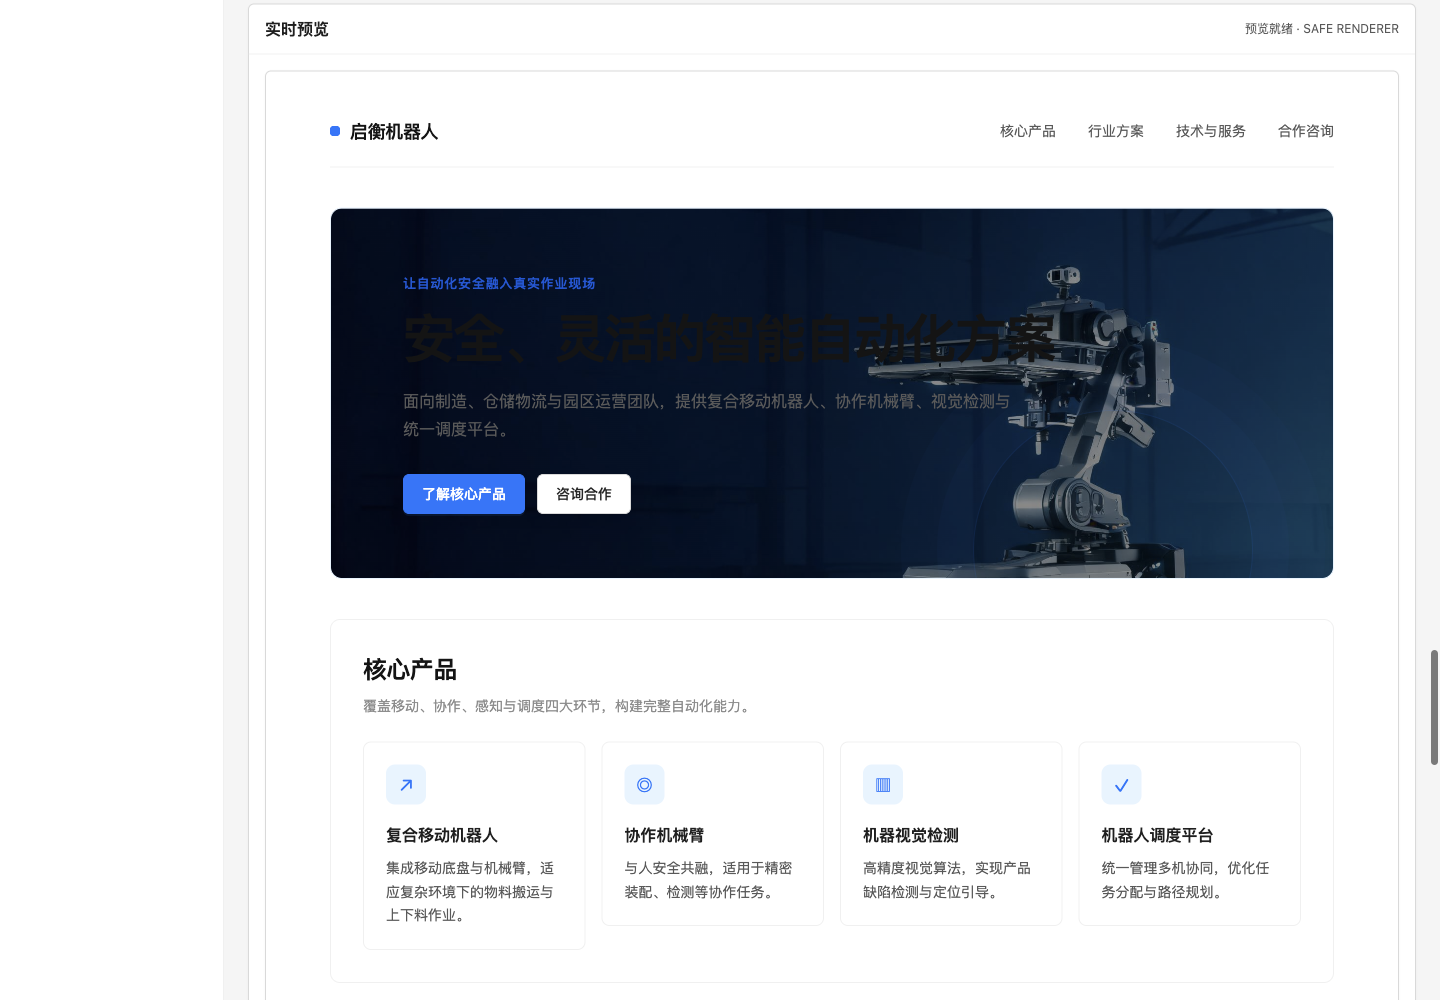
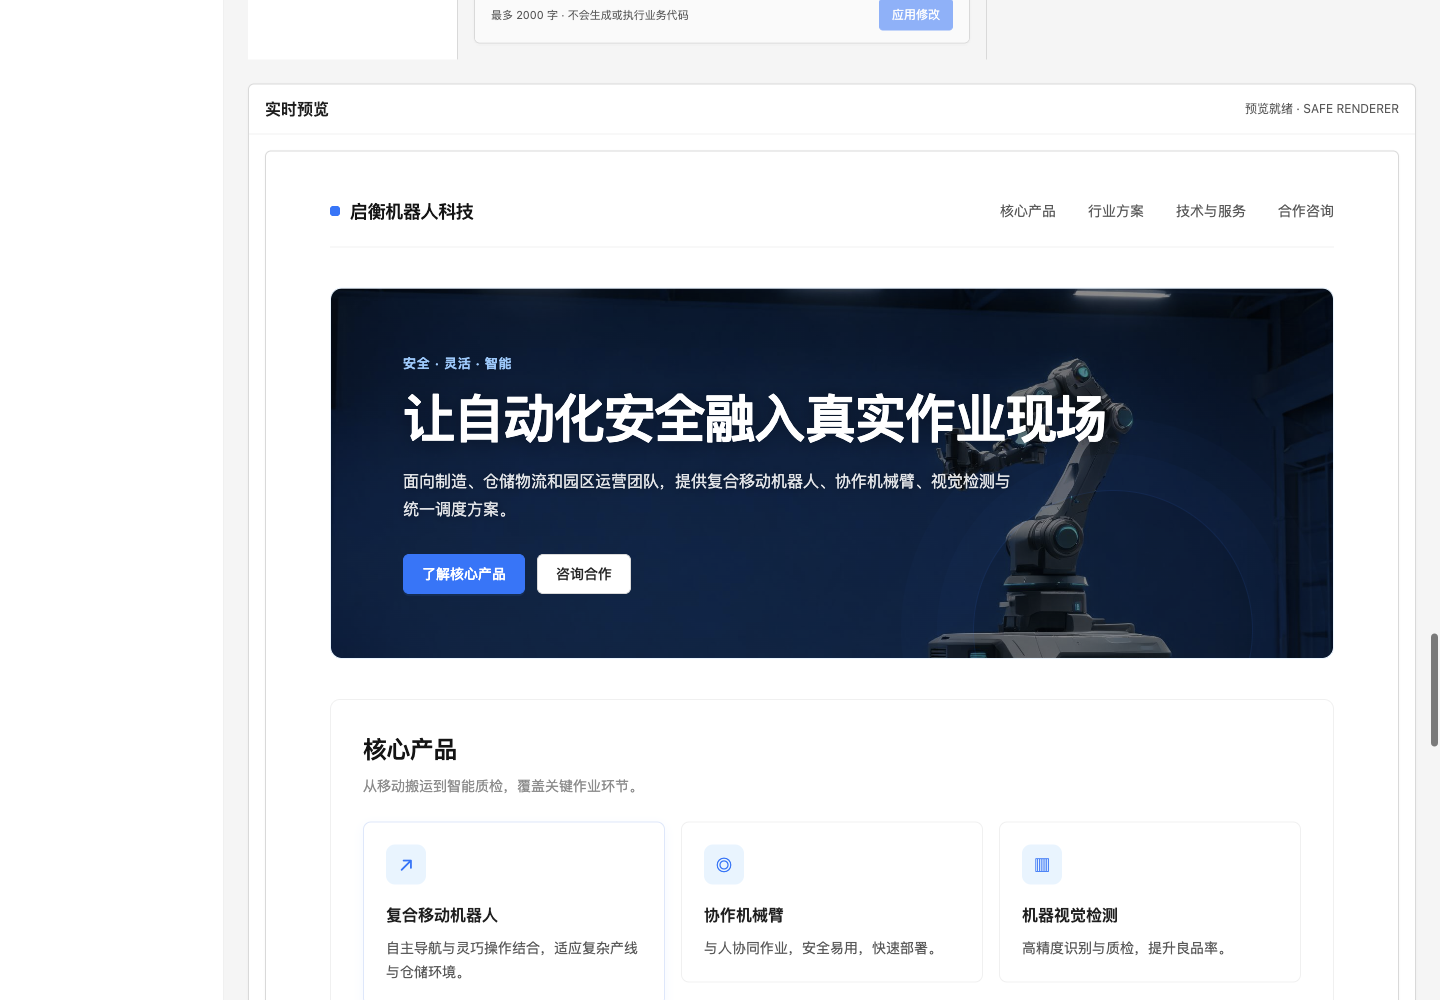
docs: add robotics website v1.1 release manual

diff --git a/docs/PulseFlow机器人官网制作手册-v1.1.md b/docs/PulseFlow机器人官网制作手册-v1.1.md
@@ -1,86 +1,113 @@
 # PulseFlow 机器人官网制作手册 V1.1
 
-本文记录在 PulseFlow Studio 中重新制作“启衡机器人科技”官网的实际流程。截图来自本次 Ego Lite TaskSpace 5 内真实操作；截图不包含工作区令牌或 API 密钥。
+这份手册记录如何从登录 PulseFlow Studio 开始，导入需求、通过系统对话修改启衡机器人科技官网、生成并应用机器人主视觉、检查预览和发布。文中的图片是本次 TaskSpace 5 操作界面的真实截图；截图和文档均未包含 API 密钥。
 
-> **当前进度（2026-09-27）**：已登录 Studio，解析并选择官网需求章节，生成草稿、回答澄清问题、通过结构校验并进入设计画布。系统对话已成功修改文案；图片生成仍失败，尚未完成图片应用、最终预览和 V1.1 发布。已有旧版本 `qiheng-robotics-home-v1` 保持不变。
+> **完成状态（2026-09-27）**：官网已发布为 `qiheng-robotics-home-v2`。DSL、预览编译、页面构建三项门禁全部通过；旧版本 `qiheng-robotics-home-v1` 保留。发布结果是 PulseFlow 的只读页面版本，尚未部署到公网。
 
-## 官网目标
+## 成品目标
 
-为启衡机器人科技制作企业官网，面向制造、仓储物流和园区运营团队，介绍复合移动机器人、协作机械臂、机器视觉检测及调度平台。视觉方向为深空蓝、冷白和电光青，使用真实工业机器人主视觉，不使用战斗机器人、虚构客户案例、未经证实的型号或性能数字。
+启衡机器人科技官网面向制造、仓储物流和园区运营团队，介绍复合移动机器人、协作机械臂、机器视觉检测、统一调度及相关服务。整体采用深空蓝、冷白和少量电光青的工业科技风格。首屏主视觉使用右侧机器人、左侧标题留白的构图，并为深色图片背景设置高对比文字。
 
-## 制作步骤与截图
+## 操作流程
 
-### 1. 登录 PulseFlow Studio
+### 1. 登录 Studio
 
-打开本地 Studio 登录页，使用本地工作区令牌进入工作区。不要把令牌发到对话中，也不要截入手册。
+启动本地服务后打开 Studio 登录页。使用本地工作区令牌进入工作区。令牌保存在根目录 `.env`，不要粘贴到系统对话或写入手册。
 
 ![Studio 登录页](assets/pulseflow-robotics-manual-v1.1/01-login.png)
 
-### 2. 选择官网页面类型
+### 2. 选择“企业官网”并导入需求
 
-登录后进入“导入业务需求”。选择“企业官网”，该类型会围绕导航、首屏、内容区块和行动入口组织页面。
+在“导入业务需求”中选择“企业官网”，再把需求按 Markdown 标题分段粘贴。分段后可以逐章检查并决定哪些内容交给生成服务。
 
 ![需求导入页](assets/pulseflow-robotics-manual-v1.1/02-requirements.png)
 
-### 3. 输入并解析结构化需求
+本次需求包含品牌定位、核心产品、行业方案、技术服务、合作咨询和视觉方向。明确不编造客户案例、公司资质、产品型号或性能数字。
 
-在“粘贴需求文本”中使用 Markdown 标题区分内容。解析器会按标题拆成章节；没有标题的长段落会被识别为“无标题内容”，不利于后续选择生成范围。
+![结构化官网需求](assets/pulseflow-robotics-manual-v1.1/03-requirement-text.png)
 
-本次整理为品牌定位、核心产品、行业解决方案、技术与服务、关于启衡、合作咨询和视觉方向七个章节。
+### 3. 选择生成章节
 
-![结构化官网需求文本](assets/pulseflow-robotics-manual-v1.1/03-requirement-text.png)
-
-### 4. 选择需要生成的章节
-
-本次选择品牌定位、核心产品、行业解决方案、技术与服务、合作咨询和视觉方向六章；“关于启衡”不单独成章，避免生成未经证实的公司历史或资质。
+勾选六个相关章节。“关于启衡”没有足够的已核实资料，因此没有单独生成公司历史介绍。
 
 ![章节选择页](assets/pulseflow-robotics-manual-v1.1/04-chapter-selection.png)
 
 ![已选六个生成章节](assets/pulseflow-robotics-manual-v1.1/05-selected-chapters.png)
 
-### 5. 检查草稿并回答澄清问题
+### 4. 检查草稿、回答问题并校验
 
-生成结果包含四个咨询表单字段：所属行业、应用场景、需求说明和联系方式。系统询问产品参数、在线预约和客户案例后，分别说明不展示未确认参数、不提供在线日历、不展示未核实或未授权的客户信息。
+生成草稿后核对品牌、页面 ID、页面结构和实体字段。本次页面 ID 为 `qiheng-robotics-home`，表单包含所属行业、应用场景、需求说明和联系方式。
 
-![生成的草稿和澄清问题](assets/pulseflow-robotics-manual-v1.1/06-draft-review.png)
+系统询问产品参数及客户案例时，回答“暂不展示未经核实的型号、性能数据、客户案例和资质”。点击“确认结构并校验”，看到校验通过后进入设计画布。
 
-回答后运行结构校验。本次显示校验通过、4 个实体字段、0 个问题待回答，再进入画布。
+![草稿和待澄清问题](assets/pulseflow-robotics-manual-v1.1/06-draft-review.png)
 
-![已回答问题并通过校验](assets/pulseflow-robotics-manual-v1.1/07-answered-questions.png)
+![回答澄清问题并通过结构校验](assets/pulseflow-robotics-manual-v1.1/07-answered-questions.png)
 
-### 6. 在画布中使用系统对话修改文案并请求主视觉
+### 5. 在画布用系统对话修改页面
 
-设计画布显示企业官网的组件工具架、页面结构、属性区、实时预览和发布检查面板。通过“对话调整页面”保留导航、产品、行业方案、服务和咨询表单结构，强化首屏价值表达，并请求生成一张深空蓝工业厂房中的复合移动机器人主视觉。
+画布包括组件工具架、页面结构、属性检查器、实时预览和发布检查。通过“对话调整页面”描述想保留的结构、文案方向和图片要求；系统会校验结果，再应用到当前画布。
 
-![初始设计画布](assets/pulseflow-robotics-manual-v1.1/08-design-canvas.png)
+![设计画布](assets/pulseflow-robotics-manual-v1.1/08-design-canvas.png)
 
-![对话提出文案和图片要求](assets/pulseflow-robotics-manual-v1.1/09-chat-request.png)
+本次对话保留导航、产品、行业方案、技术服务和合作咨询表单，将 Hero 主标题调整为“让自动化安全融入真实作业现场”，并要求生成深蓝工业厂房中的复合移动机器人主视觉。
 
-系统确认文本修改已保存到当前画布，但图片请求返回 HTTP 400。当前截图记录了失败状态；由于本地 `.env` 尚未配置方舟图片 API，不重复调用旧图片网关。
+![系统对话中的页面与图片要求](assets/pulseflow-robotics-manual-v1.1/09-chat-request.png)
 
-![图片请求失败状态](assets/pulseflow-robotics-manual-v1.1/10-image-error.png)
+### 6. 配置火山方舟图片模型并重试
 
-### 7. 配置火山方舟图片模型并生成图片
-
-Seedream 5.0 Lite 接口已通过单张请求验证。请先轮换曾暴露在聊天中的旧密钥，再将新密钥写入本地 `.env`，不要写进此文档：
+图片服务需在 API 服务启动前配置。项目根目录 `.env` 使用以下非密钥设置；`PULSEFLOW_IMAGE_API_KEY` 应填写你在方舟控制台创建的密钥，不要把真实值复制到 Markdown、截图或对话中。
 
 ```dotenv
 PULSEFLOW_IMAGE_API_URL=https://ark.cn-beijing.volces.com/api/plan/v3/images/generations
 PULSEFLOW_IMAGE_API_MODE=volcengine-ark-images
 PULSEFLOW_IMAGE_MODEL_NAME=doubao-seedream-5.0-lite
-PULSEFLOW_IMAGE_API_KEY=替换为轮换后的方舟图片 API 密钥
+PULSEFLOW_IMAGE_API_KEY=填写本机使用的方舟图片 API 密钥
 PULSEFLOW_IMAGE_RESULT_HOSTS=ark-acg-cn-beijing.tos-cn-beijing.volces.com
 ```
 
-图片接口以 JPEG URL 返回；PulseFlow 服务端会限制像素与下载主机，并转换为 PNG 供画布使用。密钥配置完成后，在同一个 Studio 对话流程中重新生成机器人主视觉，检查预览后选择首屏背景并应用。
+首次请求失败时，先确认 API 由更新后的开发命令启动，并检查模型和接口配置。图片接口会返回限时图片链接；服务端验证来源地址、下载图片并转换为 PNG 后才会保存到画布。
 
-## 后续步骤
+> 本次按你的指示暂用此前发来的密钥。由于它曾以明文出现在聊天中，建议在火山方舟控制台轮换，并只更新本机根目录 `.env`。该文件已被 Git 忽略。
 
-1. 在 Studio 对话中生成 Seedream 机器人主视觉，确认图片方向和裁切。
-2. 将图片应用为 Hero 背景，截图记录生成结果和应用后的画布。
-3. 检查整页实时预览并截图记录。
-4. 运行 DSL、预览编译和页面构建发布门禁，发布新版本并记录新版本号；保留 `qiheng-robotics-home-v1`。
+![首次图片请求失败状态](assets/pulseflow-robotics-manual-v1.1/10-image-error.png)
 
-## 发布范围说明
+点击“重新生成”后，检查图片是否符合需求。成功状态会显示生成图片和“应用到页面”等操作；选择“用作背景”可将图片绑定到已选中的 Hero 或内容区块。
 
-PulseFlow 的“发布”会生成只读页面版本，不代表该页面已部署到公网。若要接入实际 Vue 项目，参考 [中文使用指南](中文使用指南.md)，使用 CLI 拉取发布版本。
+![系统对话生成的机器人主视觉](assets/pulseflow-robotics-manual-v1.1/11-robot-image-generated.png)
+
+![图片已应用到 Hero 背景](assets/pulseflow-robotics-manual-v1.1/12-robot-image-applied.png)
+
+### 7. 检查整页实时预览
+
+重点确认导航可读、主标题与深色背景有足够对比、机器人构图没有遮挡文字，并检查产品、行业方案、服务和咨询表单内容。
+
+![启衡机器人官网实时预览](assets/pulseflow-robotics-manual-v1.1/13-robot-site-preview.png)
+
+### 8. 运行发布门禁并发布
+
+点击“运行检查并发布”。Studio 会运行 DSL 校验、预览编译和页面构建；全部通过后生成只读发布版本。
+
+![点击发布前的门禁页面](assets/pulseflow-robotics-manual-v1.1/14-publish-gates.png)
+
+本次三个门禁全部通过，版本为 `qiheng-robotics-home-v2`。旧版 `qiheng-robotics-home-v1` 没有被覆盖。
+
+![V1.1 发布成功](assets/pulseflow-robotics-manual-v1.1/15-v1.1-published.png)
+
+## 下次如何启动和使用
+
+1. 在项目根目录运行 `pnpm install`（首次使用时），然后运行 `pnpm dev`。
+2. 打开终端显示的本地 Studio 地址，用 `.env` 中的工作区令牌登录。
+3. 选择“企业官网”或“管理平台”，粘贴带标题的需求并解析。
+4. 勾选生成章节、核对草稿并回答所有澄清问题，运行结构校验。
+5. 在设计画布中用“对话调整页面”提出文案或视觉修改；图片请求明确说明目标节点、构图、风格和不希望出现的元素。
+6. 检查生成图片，应用为页面图片或背景，再检查整页实时预览。
+7. 点击“运行检查并发布”，确认所有门禁通过并记录发布版本号。
+
+图片调用可能产生费用。不要重复点击生成；失败后先检查提示和服务配置再重试。
+
+## 发布结果与后续部署
+
+Studio 发布会把校验后的页面保存为只读版本，不会自动部署到公网。要把发布版本接入实际 Vue 项目，可继续阅读[中文使用指南](中文使用指南.md)并使用 PulseFlow CLI 导出页面文件。
+
+本次截图目录：`docs/assets/pulseflow-robotics-manual-v1.1/`。

diff --git a/CHANGELOG.zh.md b/CHANGELOG.zh.md
@@ -1,0 +1,20 @@
+# 更新日志
+
+## 1.0.0 - 2026-09-27
+
+### 新功能
+
+- 支持结构化需求导入、UI-DSL 画布编辑、实时预览和发布门禁。
+- 新增火山方舟 Seedream 图片生成，支持图片资产校验、背景应用和 CLI 导出。
+- 完成 Ant Design 控制台风格的 PulseFlow Studio 工作流程与页面组件。
+
+### 修复
+
+- API 开发服务从项目根目录加载 `.env`，使本地模型配置可用。
+- 图片生成费用说明不再固定指向特定模型供应商。
+- 修正固定 DNS 解析时 Node `lookup({ all: true })` 的地址回调格式。
+
+### 文档
+
+- 新增启衡机器人官网制作与发布手册 V1.1，包含全流程真实截图。
+- 记录 `qiheng-robotics-home-v2` 发布结果及后续本地使用方法。
